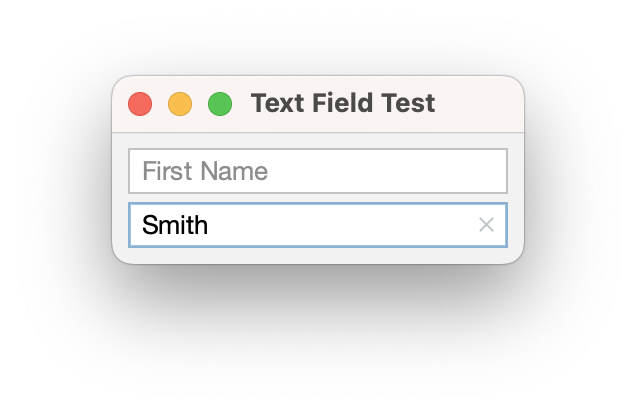
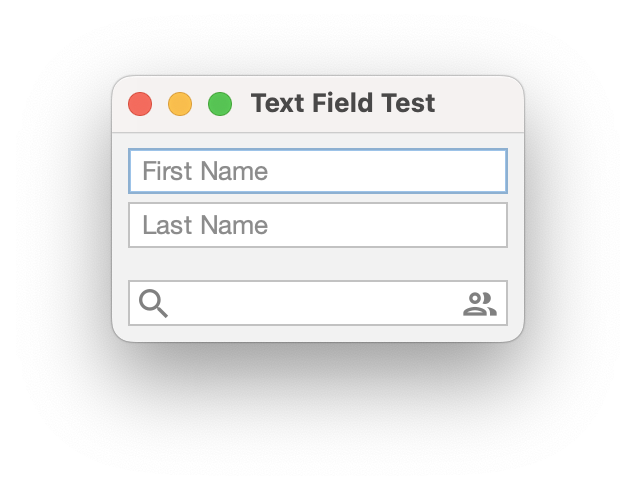
Add support for additional text field properties.

Changed region(s): [[0.1494, 0.1456, 0.8365, 0.7282], [0.8066, 0.1748, 0.8365, 0.233], [0.7767, 0.1456, 0.8066, 0.1748]]

diff --git a/sierra/src/main/java/org/httprpc/sierra/UILoader.java b/sierra/src/main/java/org/httprpc/sierra/UILoader.java
@@ -215,6 +215,8 @@ public class UILoader {
                 if (type == JTextField.class) {
                     appendAttributeDeclaration(PLACEHOLDER_TEXT, CDATA, writer);
                     appendAttributeDeclaration(SHOW_CLEAR_BUTTON, String.format("(%b|%b)", true, false), writer);
+                    appendAttributeDeclaration(LEADING_ICON, CDATA, writer);
+                    appendAttributeDeclaration(TRAILING_ICON, CDATA, writer);
                 }
 
                 endEntityDeclaration(writer);
@@ -308,6 +310,8 @@ public class UILoader {
 
     private static final String PLACEHOLDER_TEXT = "placeholderText";
     private static final String SHOW_CLEAR_BUTTON = "showClearButton";
+    private static final String LEADING_ICON = "leadingIcon";
+    private static final String TRAILING_ICON = "trailingIcon";
 
     private static final String HORIZONTAL_ALIGNMENT = "horizontalAlignment";
     private static final String VERTICAL_ALIGNMENT = "verticalAlignment";
@@ -513,6 +517,19 @@ public class UILoader {
                 }
 
                 component.putClientProperty(String.format("%s.%s", JTextField.class.getSimpleName(), name), Boolean.valueOf(value));
+            } else if (name.equals(LEADING_ICON) || name.equals(TRAILING_ICON)) {
+                if (!(component instanceof JTextField)) {
+                    throw new UnsupportedOperationException("Component is not a text field.");
+                }
+
+                Icon icon;
+                if (value.endsWith(".svg")) {
+                    icon = new FlatSVGIcon(owner.getClass().getResource(value));
+                } else {
+                    throw new UnsupportedOperationException("Unsupported icon type.");
+                }
+
+                component.putClientProperty(String.format("%s.%s", JTextField.class.getSimpleName(), name), icon);
             } else {
                 var mutator = map(properties.get(tag).get(name), BeanAdapter.Property::getMutator);
 

diff --git a/README.md b/README.md
@@ -185,6 +185,10 @@ Several FlatLaf text field [properties](https://www.formdev.com/flatlaf/client-p
 <column-panel spacing="4" padding="8">
     <text-field columns="16" placeholderText="firstName" showClearButton="true"/>
     <text-field columns="16" placeholderText="lastName" showClearButton="true"/>
+
+    <spacer size="8"/>
+
+    <text-field columns="16" leadingIcon="search_18dp.svg" trailingIcon="people_18dp.svg"/>
 </column-panel>
 ```
 
